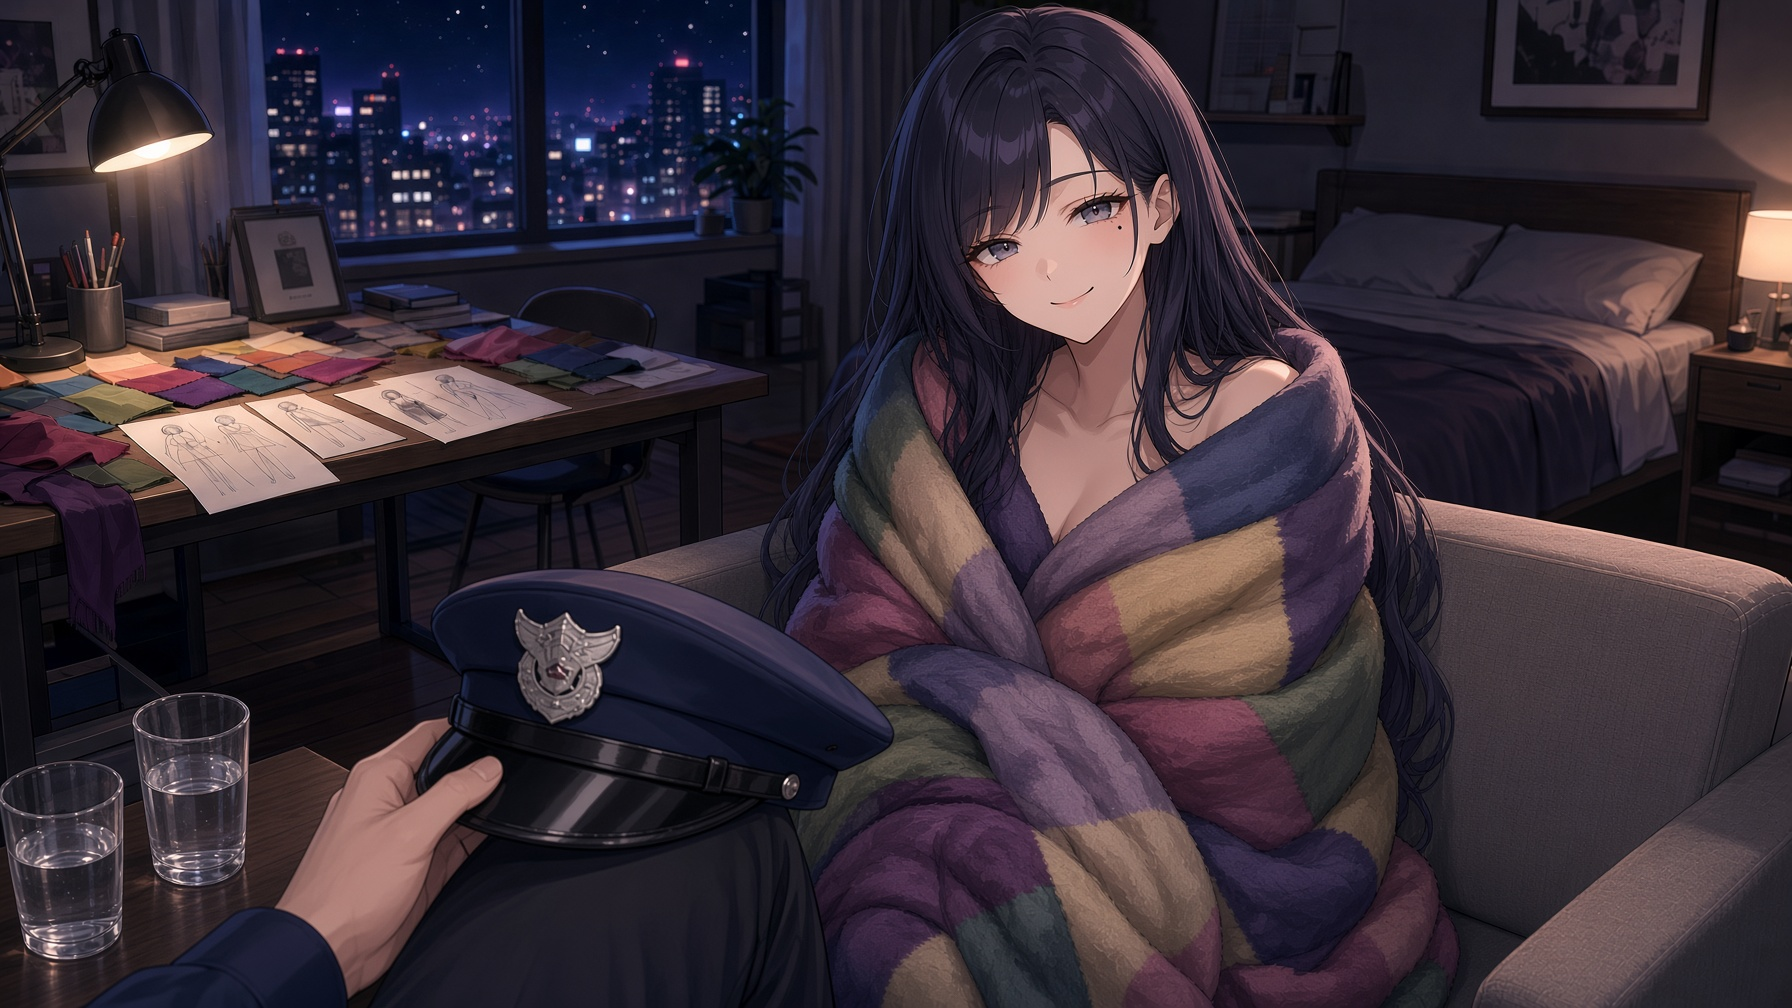
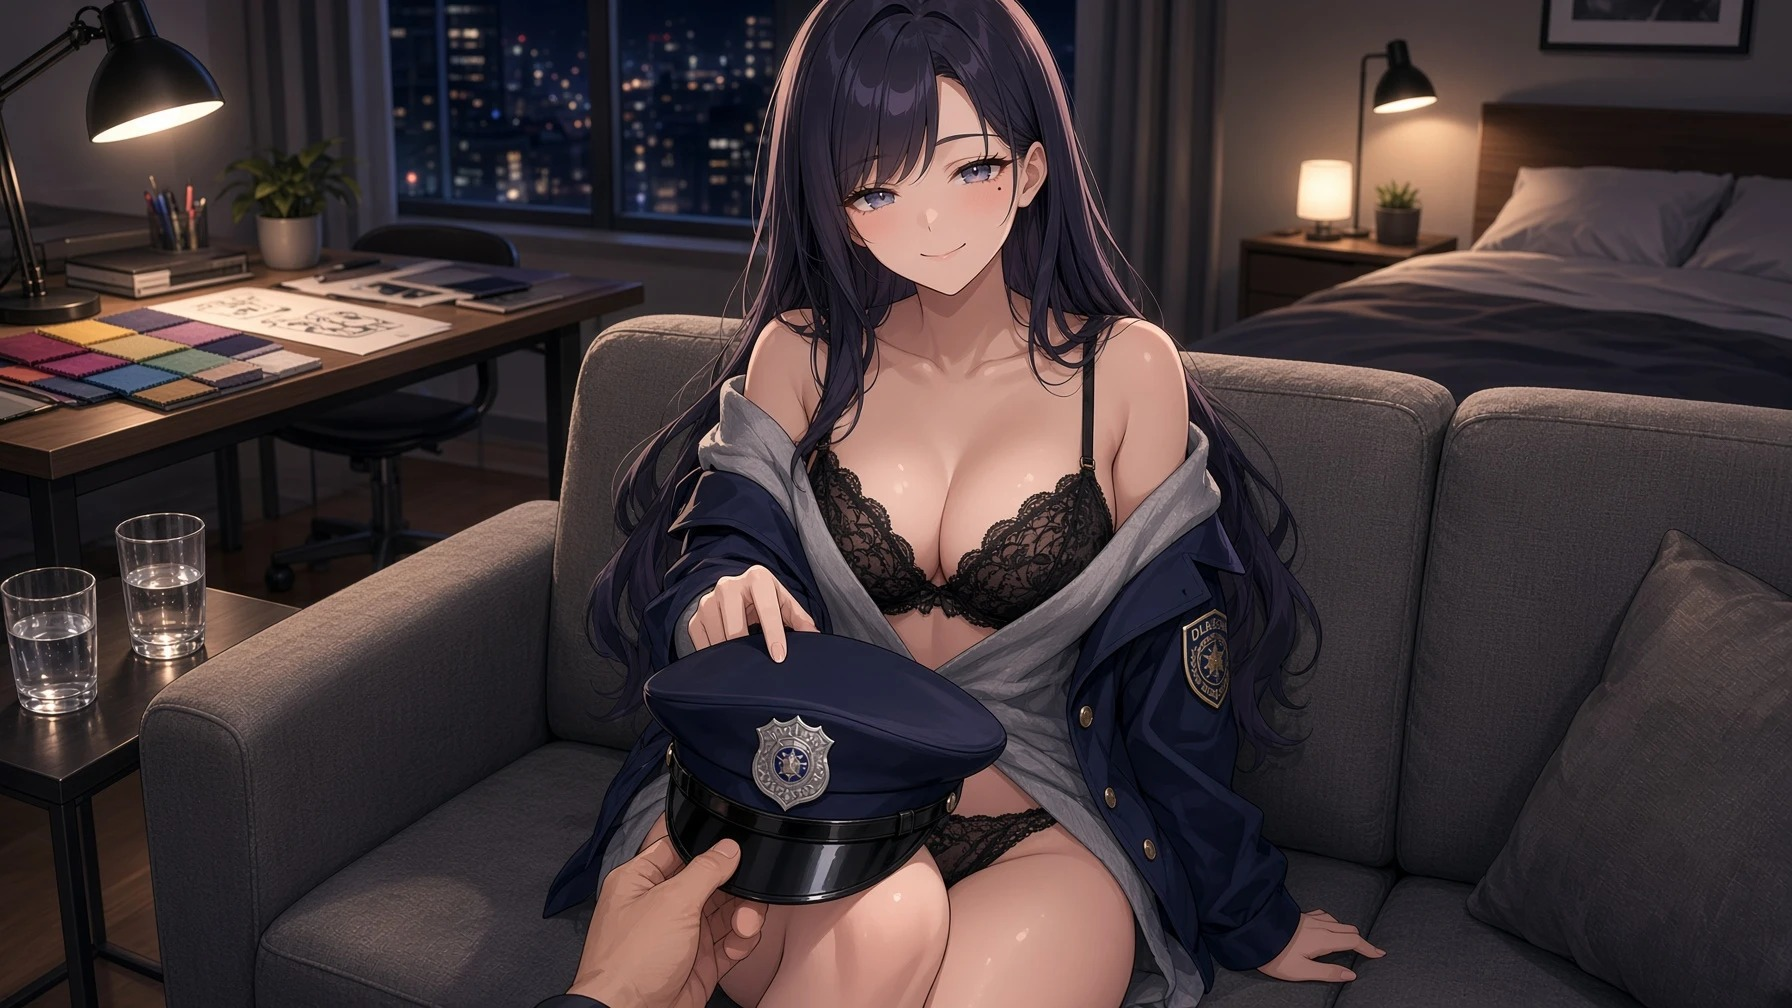
Connect Seoyun event before/after CGs and show after-page art when present
Claude-Session: https://claude.ai/code/session_01Dnvp3arKhcQBC88sGG3zUd

diff --git a/CharacterArt/candidates/seoyun-events-grok-v001/README.md b/CharacterArt/candidates/seoyun-events-grok-v001/README.md
@@ -20,3 +20,8 @@
 | r15_cosplay_bunny_after | 교체·통과(바니수트+셔츠). _alt는 속옷 세트판 |
 | r15_cosplay_police_after_pending | 보류: 하의 속옷이 그려지지 않음(수위 기준 밖), 무릎 위 경찰 모자 빠짐. 기존 police_after 유지 |
 | r07_casual_intro | 아직 다시 그리지 않음(구석 어깨 문제 남음) |
+
+## 최종 (2026-11-24)
+- r07_casual_intro, r15_cosplay_police_after를 사용자가 올린 두 장으로 교체(시점 수정, 하의 속옷·무릎 위 모자 확인). 보류 파일 삭제.
+- 18장 모두 통과. 사용자 요청 흐름(전부 모이면 게임 연결)에 따라 1280×720 PNG로 줄여 Source/game/images/events/seoyun/에 연결.
+  A=도입(`*_intro.png`), B=도입 표정(`*_intro_shy.png`), C=이후 대화(`*_after.png`, 새 연결).
